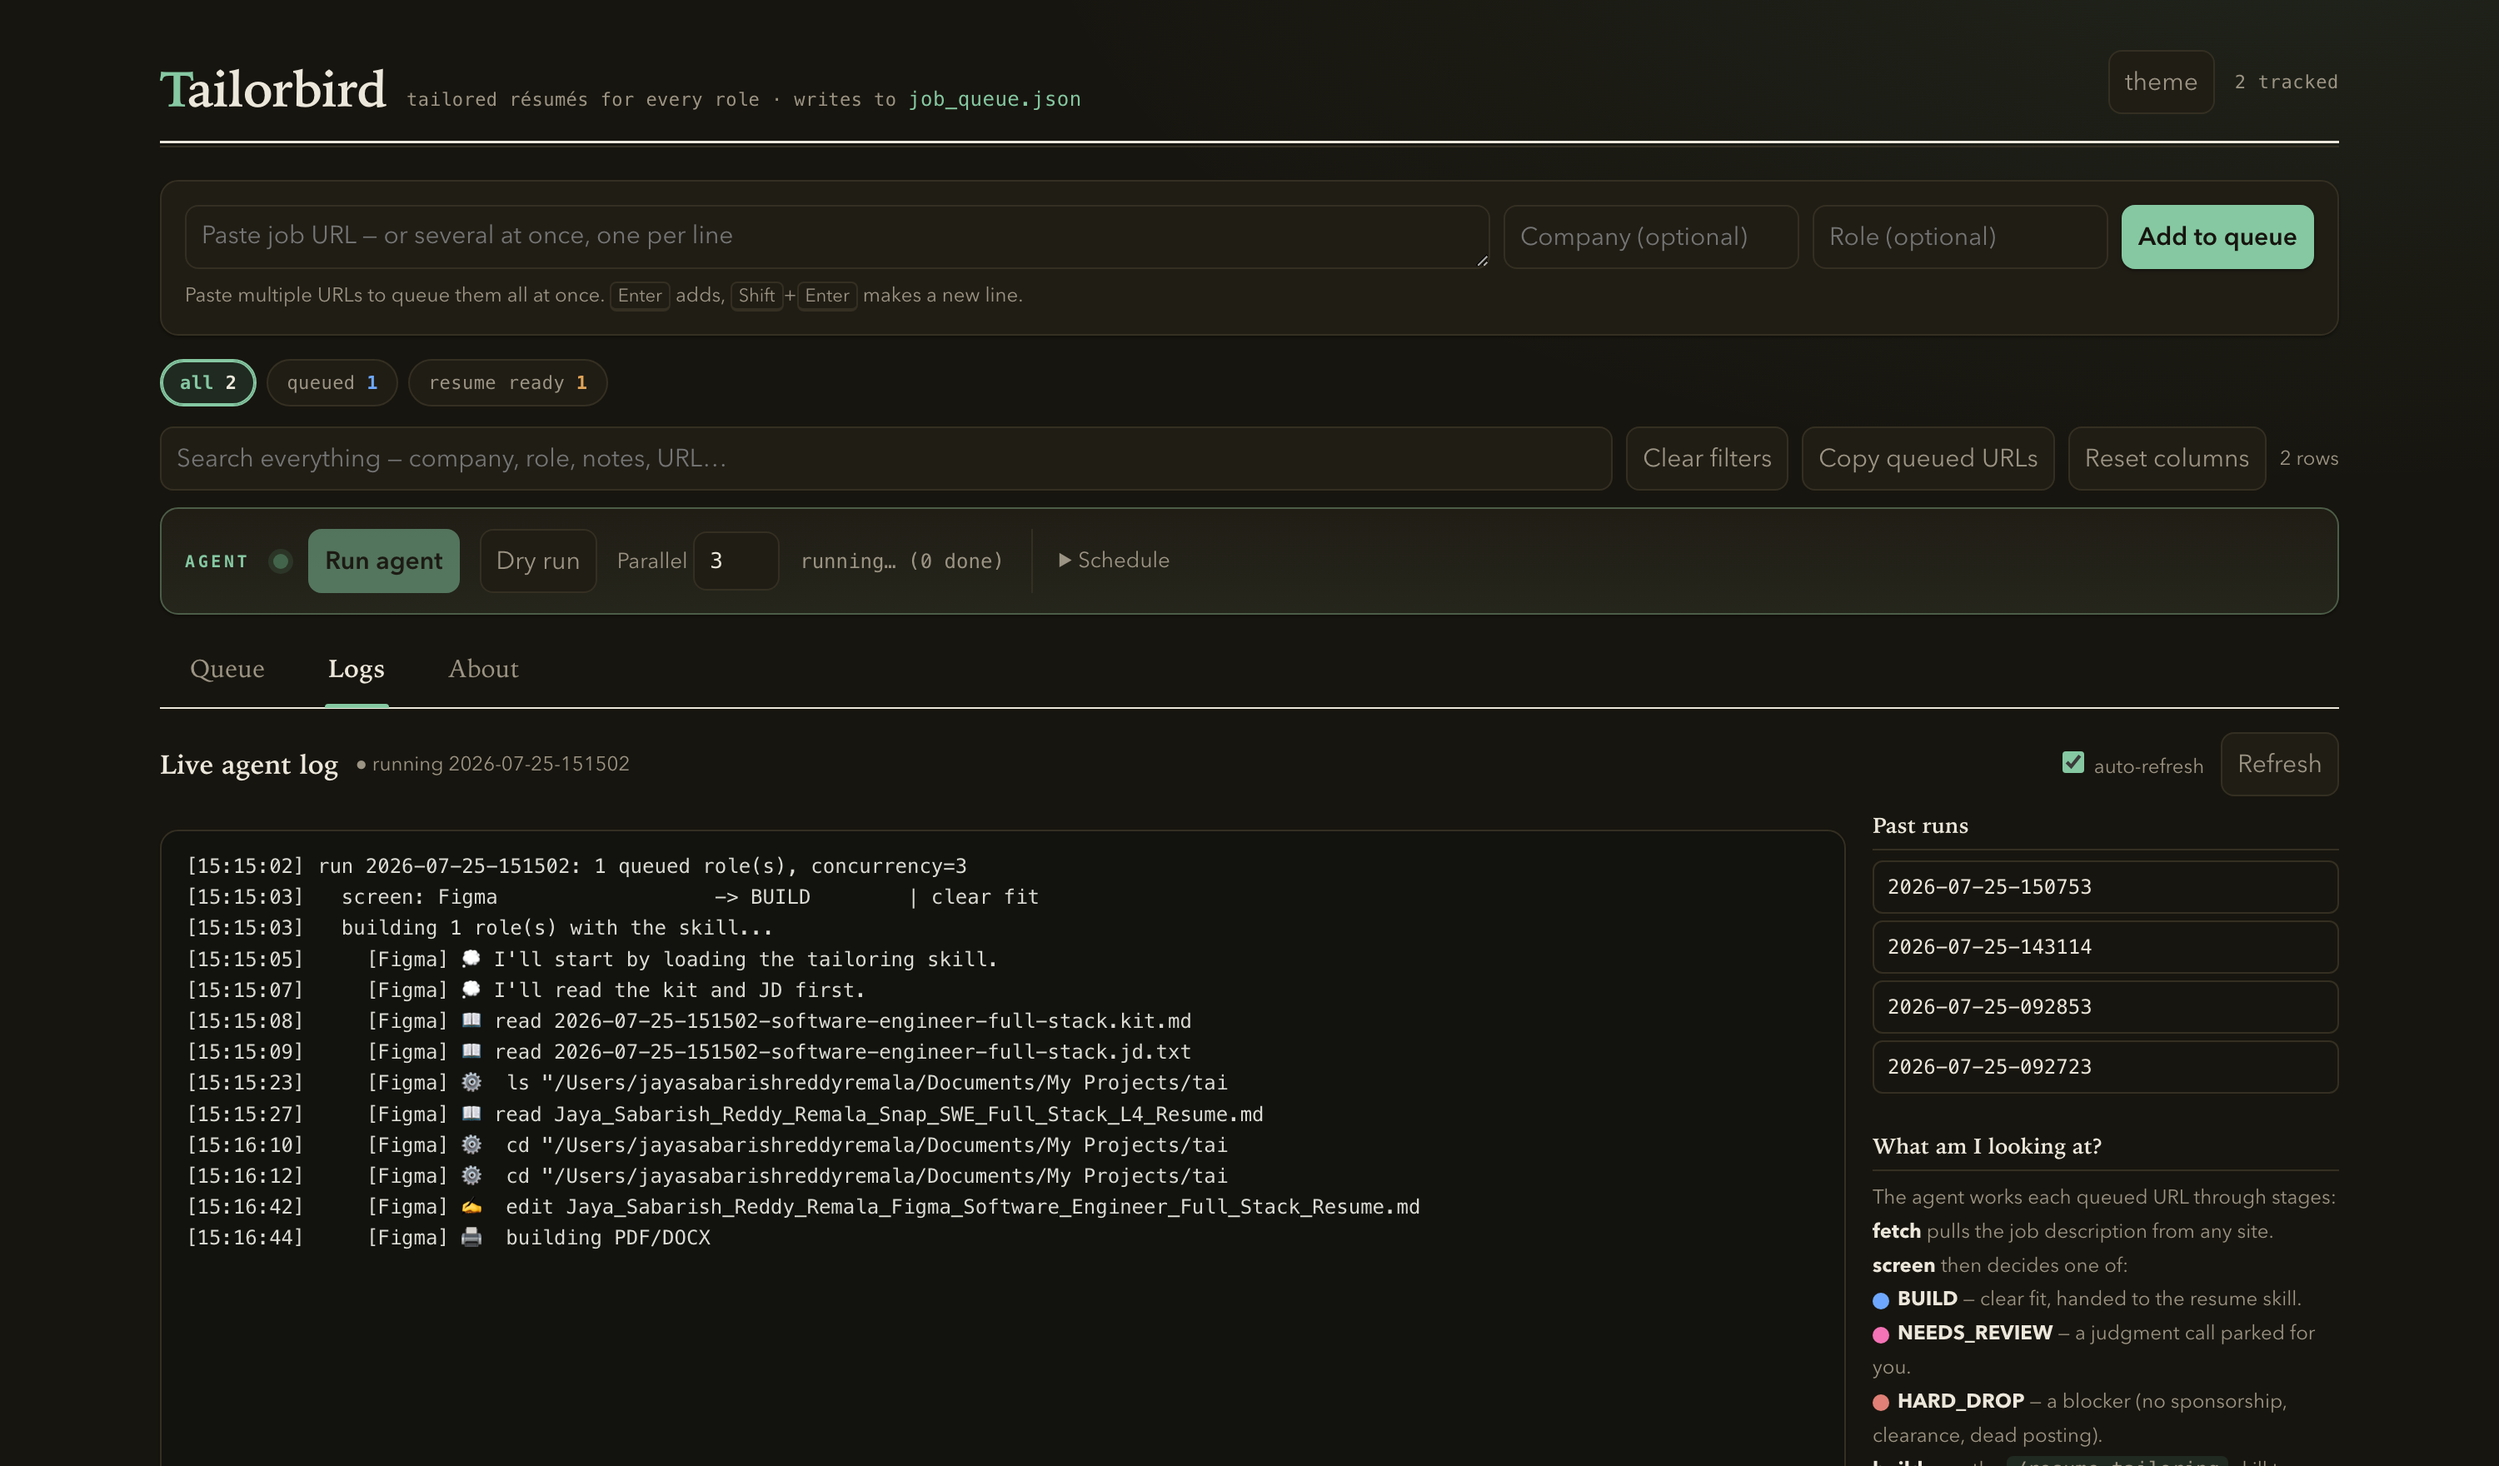
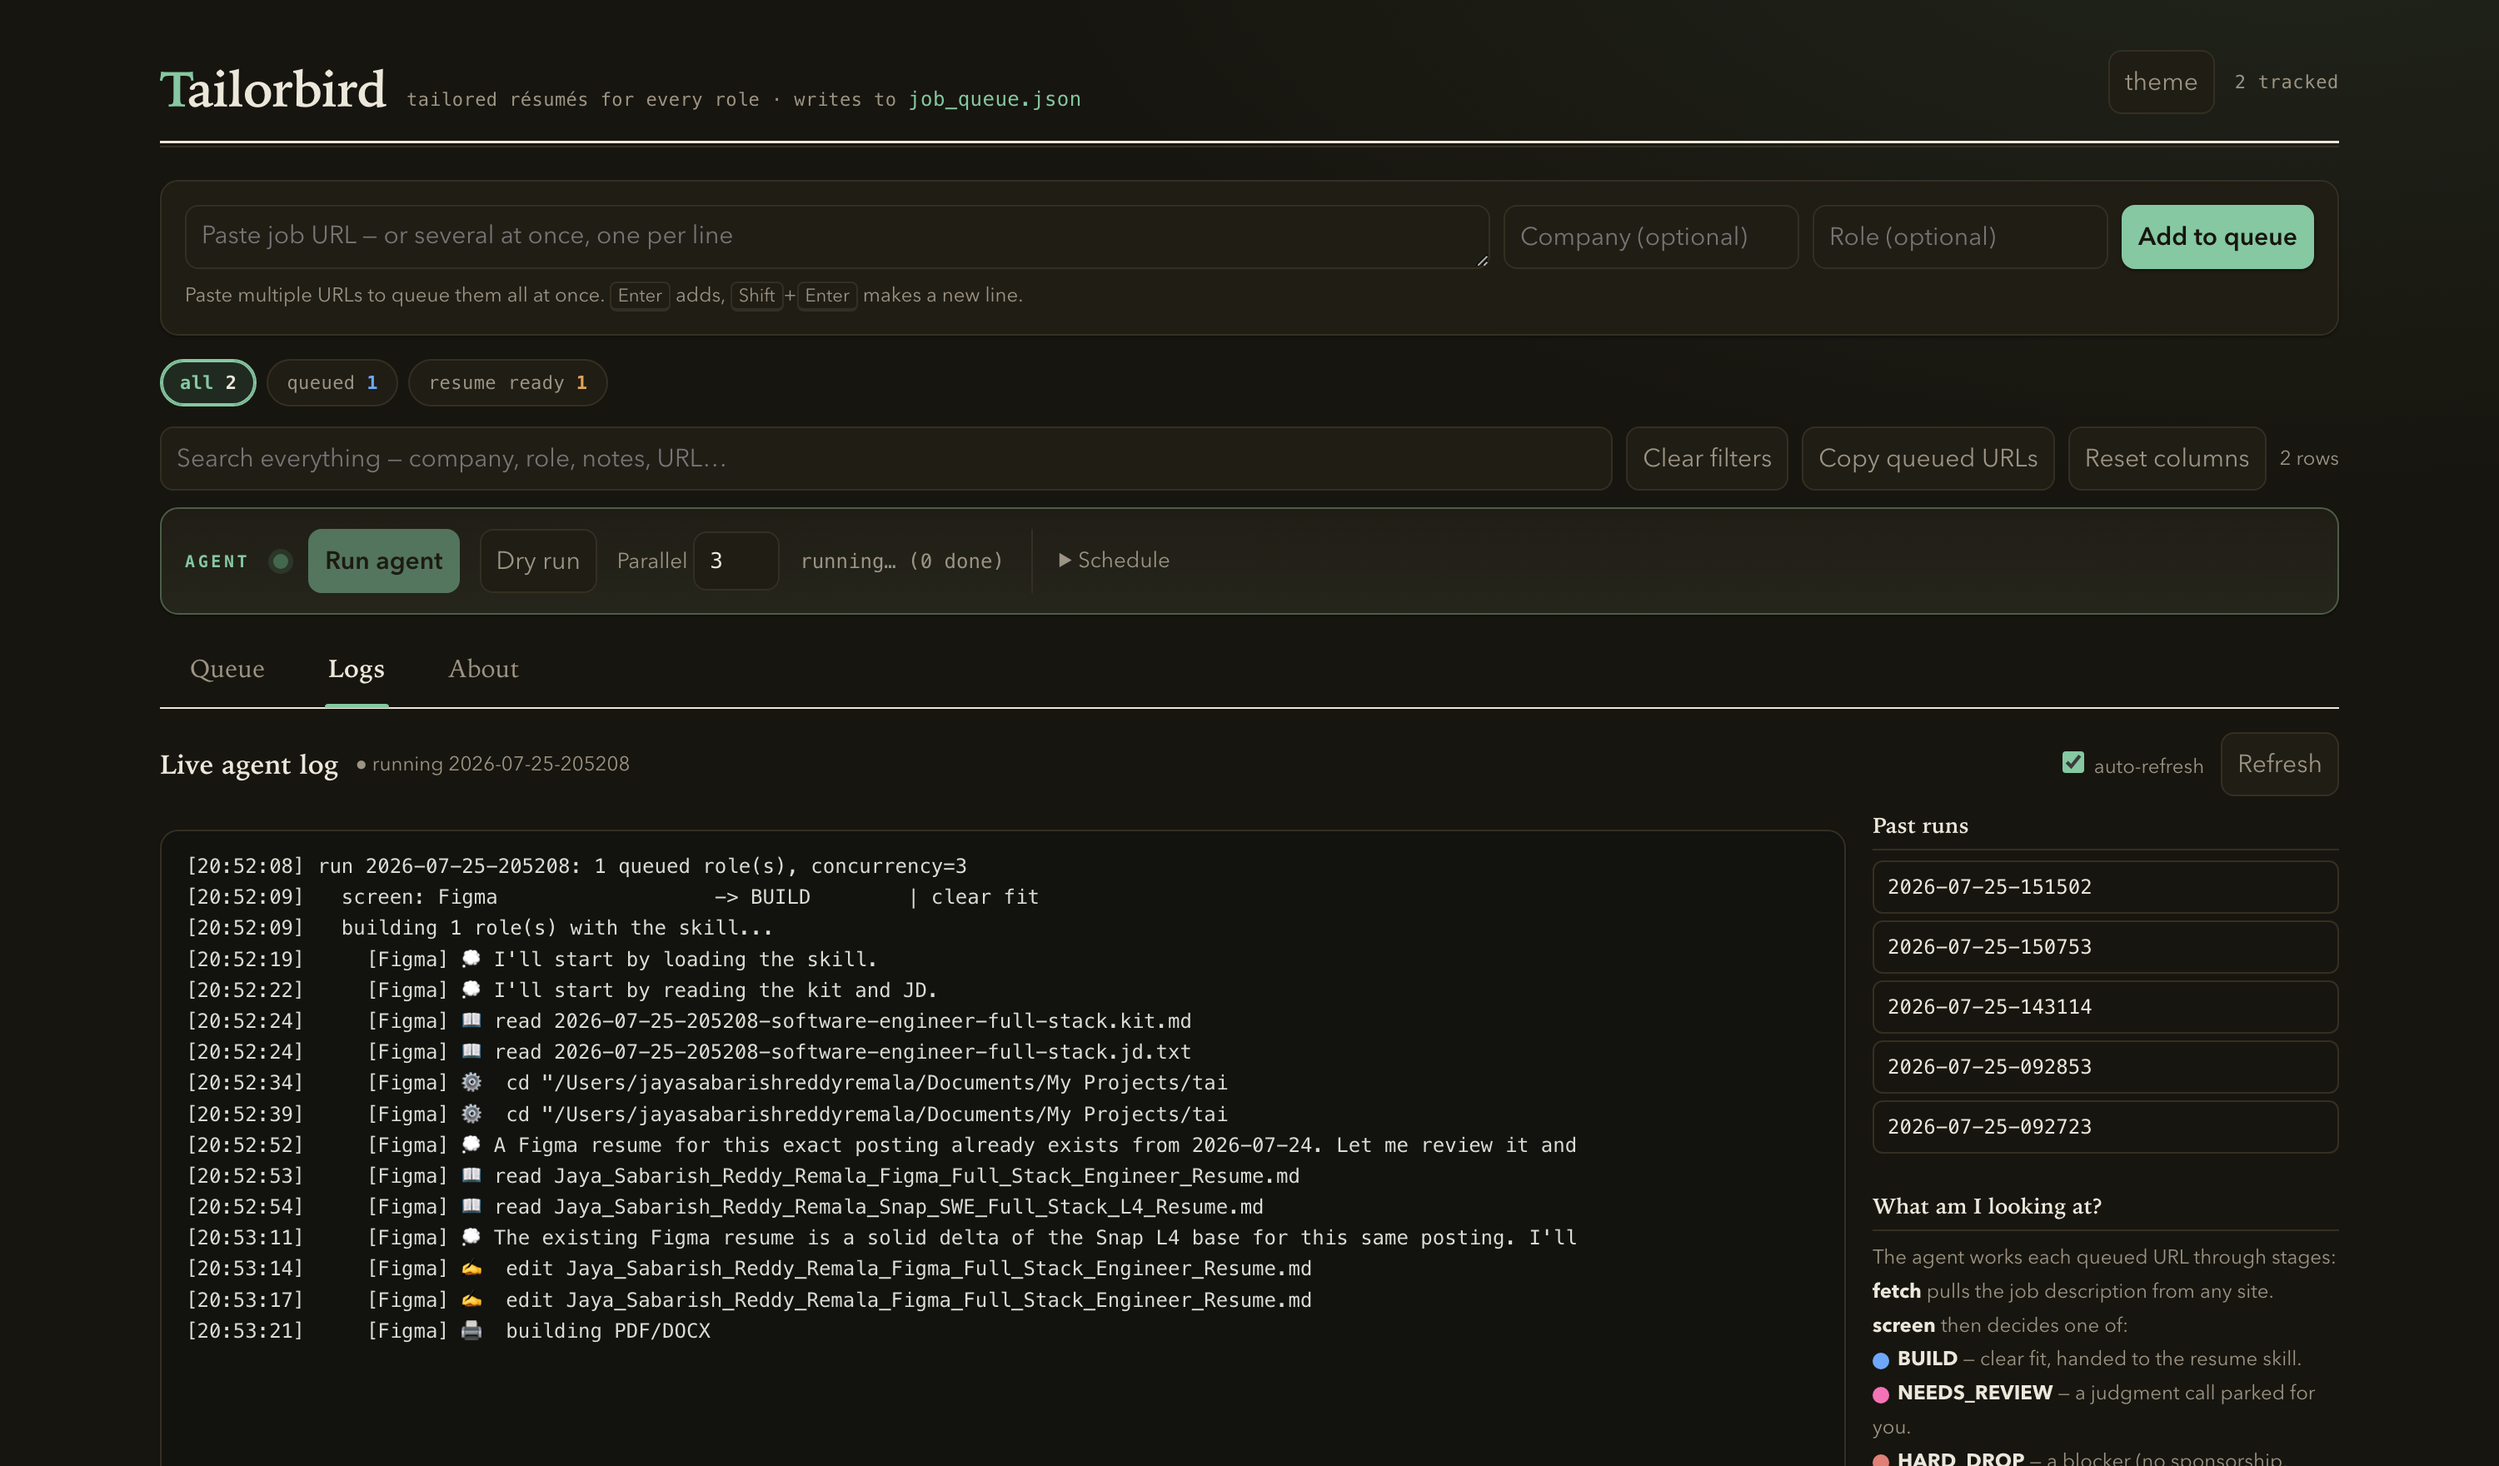
docs: swap in a genuine successful run in the walkthrough
Re-ran the Figma demo after the account usage limit reset and captured the real
success: live streaming feed, the completed run (idle · 1 built · $1.23 · 77k
tok · 122s), and the resume_ready row at ~88%. Added a completed-log frame and
updated the telemetry to the actual run (one page on the first try — a single
PDF build — in 122s).

diff --git a/README.md b/README.md
@@ -145,16 +145,20 @@ right rail lists past runs and a plain-language legend of the stages.
 
 ![The Logs tab streaming the agent's steps in real time as it tailors the résumé](docs/images/step3_live_logs.png)
 
-When a role finishes, the log prints the outcome, the cost/tokens/time, and a **breakdown of
-where the time went** so you can see the bottleneck at a glance, e.g.:
+When the role finishes, the banner flips to **idle** with the run's totals, and the log
+prints the outcome plus a **breakdown of where the time went** — so the bottleneck is
+obvious at a glance:
+
+![The completed run: idle banner reading "1 built · $1.23 · 77k tok · 122s"](docs/images/step3_done_log.png)
 
 ```
-  BUILT        Figma (~88%) · $1.36 · 83k new tok · 176s
-    [Figma] breakdown: 0 web search(es) · 3 PDF build(s) · 19 turns
+  BUILT        Figma (~88%) · $1.23 · 77k new tok · 122s
+    [Figma] breakdown: 0 web search(es) · 1 PDF build(s) · 17 turns
 ```
 
-The agent only ever sets `dropped`, `needs_review`, or `resume_ready` — everything from
-`applied` onward stays yours.
+(This exact run: one page on the first try — a single PDF build — in 122 seconds.) The agent
+only ever sets `dropped`, `needs_review`, or `resume_ready` — everything from `applied`
+onward stays yours.
 
 ### 4. Collect the tailored résumé
 
